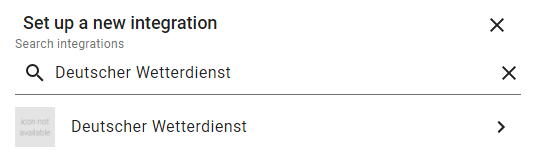
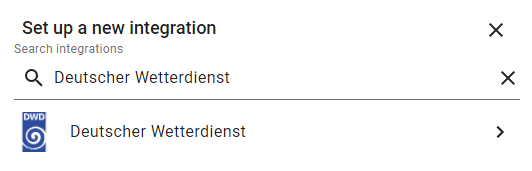
Update README.md

diff --git a/README.md b/README.md
@@ -88,8 +88,7 @@ I can really recommend the custom weather card at https://github.com/bramkragten
 
 ![Screenshot Weather Card](./images/screenshot_bramkragten-weather-card.png)
 
-## Limitations and Known Issues
-- This component has no icon in the integrations list yet, because there is no brand image in the brands repository (https://github.com/home-assistant/brands) yet.
+## Limitations
 - This component only creates weather entities, no sensors. The main reason is that I didn't need it. ;) However, I also believe that this is actually the correct design, because all data is available via the weather entity. Additionally adding sensors with the same data to me seems like a workaround for limitations that are actually somewhere else.
 - The daily forecast only takes the future into account, which is a deviation from how e.g. the Warnwetter app behaves. There are two reasons for that:
   - This was the easier and straight forward way during implementation. ;)
